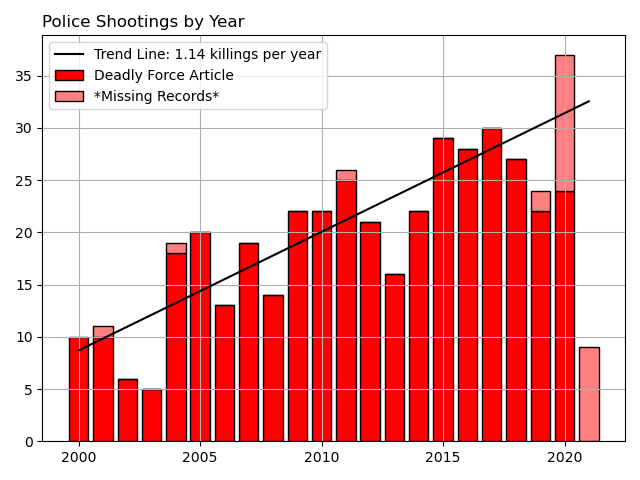
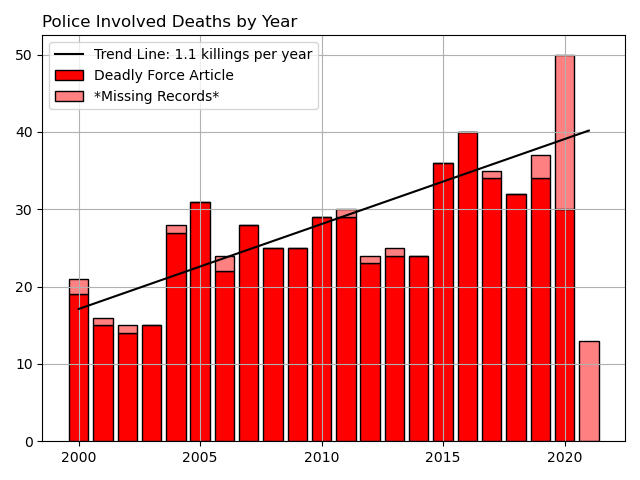
AAG Updates4

diff --git a/Content/NextSteps.md b/Content/NextSteps.md
@@ -1,0 +1,58 @@
+---
+layout: default
+title: Next Steps
+nav_order: 5
+---
+
+# Validating, Updating, and expanding the Dataset
+So far, I have found 15 police involved deaths that were left out of the dataset.  
+* There are more that need to be added, which I haven't been able to find a source for yet.  
+  * ["Between 2010 and July 2020, there have been 13 police-related deaths in Nunav"](https://www.cbc.ca/news/canada/north/nunavut-police-related-death-rate-high-data-1.5645619)
+There have been *at least* 32 police involved deaths since
+
+<div style="overflow: hidden;
+  padding-top: 56.25%;
+  position: relative">
+  <iframe src="CA_Trendline.png" title="Processes" scrolling="no" frameborder="0"
+    style="border: 0;
+   height: 100%;
+   left: 0;
+   position: absolute;
+   top: 0;
+   width: 100%;">
+   <p>Your browser does not support iframes.</p>
+ </iframe>
+</div>
+<a href="CA_Trendline.png" target="_blank">View Image in New Tab</a>
+
+# Advocating for Accountability
+
+As of 2017 (The 2020 update didn't include this information), only 14 officers (3%) had been charged for a killing.
+
+# Attributing Blame
+
+Regardless of whether an officer is charged with a crime, the departments involved are directly responsible for the deaths of these 603 individuals.
+
+|Rank|               Department                |Province|Killings|
+|---:|-----------------------------------------|--------|-------:|
+|   1|RCMP                                     |BC      |      82|
+|   2|Toronto Police Service                   |ON      |      61|
+|   3|RCMP                                     |AB      |      39|
+|   4|Service de police de la Ville de Montréal|QC      |      35|
+|   5|Sûreté du Québec                         |QC      |      34|
+|   6|Ontario Provincial Police                |ON      |      33|
+|   7|Edmonton Police Service                  |AB      |      29|
+|   8|Calgary Police Service                   |AB      |      27|
+|   9|Vancouver Police Department              |BC      |      25|
+|  10|Winnipeg Police Service                  |MB      |      21|
+|  11|Peel Regional Police                     |ON      |      16|
+|  12|Ottawa Police Service                    |ON      |      10|
+|  13|York Regional Police                     |ON      |      10|
+
+
+
+# Sharing the Data
+
+This information needs to be disseminated more widely, Systemic Racism is swept under the rug too often in Canada.  The updated dataset is publicly available on my [github page].(https://github.com/June-Spaceboots/Police_Involved_Deaths_Canada/tree/main/Inputs).  I intend to continue to working update, document and share this dataste, but I am just one grad student with limited time & resources.  
+
+If any one has any questions, concenrs, comments, or is interested in collaborating on this please contact reach out me at skeeter1@mail.ubc.ca

diff --git a/Content/Flaws.md b/Content/Flaws.md
@@ -1,25 +1,21 @@
 ---
 layout: default
-title: The Data
-nav_order: 5
+title: Flaws in the Data
+nav_order: 4
 ---
 
-# Irregular Updates
+# The CBC Dataset is highly Flawed.
 
-The dataset was intially published in [2018](https://newsinteractives.cbc.ca/longform-custom/deadly-force), covering incidents from 2000 to 2017.  It wasn't updated again for two and a half years.
+# 1) They have not been transparent about their methods.
+They have not adequately defined their methods, defined what does and does not qualify as a police killing, or provided sources for their data.
 
+# 2) The data is not regularly updated.
+The dataset was intially published in [2018](https://newsinteractives.cbc.ca/longform-custom/deadly-force).  It wasn't updated again for two and a half years.
 * The updates coincided wite media attention surrounding the Black Lives Matter protests in summer 2020, and to date the CBC has no plans of updating it further.
+* A key issue with relying on a news corporation to collect & disseminate this type of information
 
-* A key issue with relying on a news corporation to collect this information, is that it is not updated at regular intervals.
-	* Once the subject falls out of the news cycle, they have little incentive to continue.
-
-
-# Missing & Incomplete Records
-
-Because it is a collection of secondhand information (eg. press releases and news stories), many of the records are incomplete.
-	* The race of the victim is unknown in 136/554 incidents.
-	* The victims name is unknown in 45 incidetns.
-	* The cause of death is unknown in 22 incidents.
+# 3) There are many missing/incomplete records.
+The victims race is unknown in 153 incidents.  Their name is missing in 45 incidents.  The cause of death is unknown in 22 incidents.
 
 The CBC database has missing incidnets entirely.  Including *at least* four shootings [1](https://toronto.citynews.ca/2014/05/21/jeffrey-reodica-vigil-marks-10-years-since-fatal-police-shooting/) [2](https://globalnews.ca/news/7643929/former-b-c-cop-granted-escorted-temporary-absences/) [3](https://globalnews.ca/news/6267867/asirt-shooting-cochrane-dec-2019/) [4](https://edmonton.ctvnews.ca/man-dead-after-police-involved-shooting-in-central-alberta-officials-1.4747826), a death from a [police dog](https://www.cbc.ca/news/indigenous/prince-george-death-rcmp-custody-investigation-1.5540688), and two [starlight tours](https://www.canadaland.com/podcast/the-police-4-starlight-tours/).
 
@@ -77,3 +73,4 @@ The Deadly Force dataset only includes deaths that are "verifiably" the result o
  </iframe>
 </div>
 <a href="killercopscanada.png" target="_blank">View Image in New Tab</a>
+

diff --git a/index.md b/index.md
@@ -5,7 +5,7 @@ nav_order: 1
 ---
 # Police Involved Deaths in Canada
 
-##  Presnetation by June Skeeter [They/Them/Theirs]
+##  Presentation by June Skeeter [They/Them/Theirs]
 
 # Content Warning:
 I will be speaking about police violence today.  This difficult and painful subject that may be triggering to some, especially BIPOC individuals.
